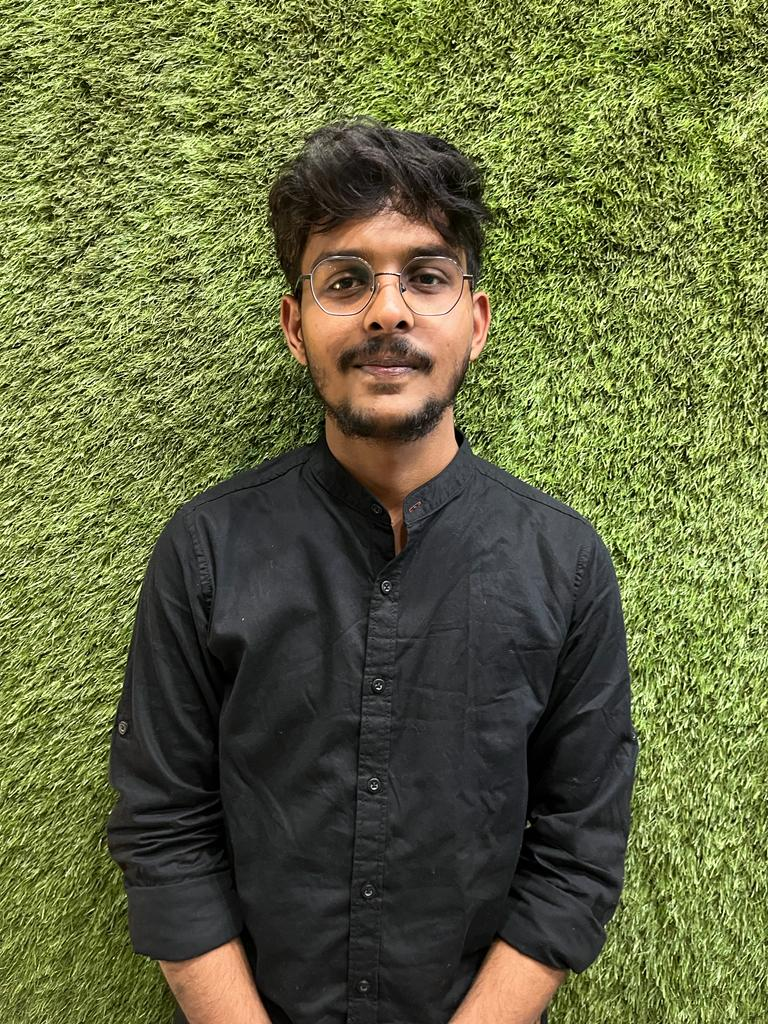
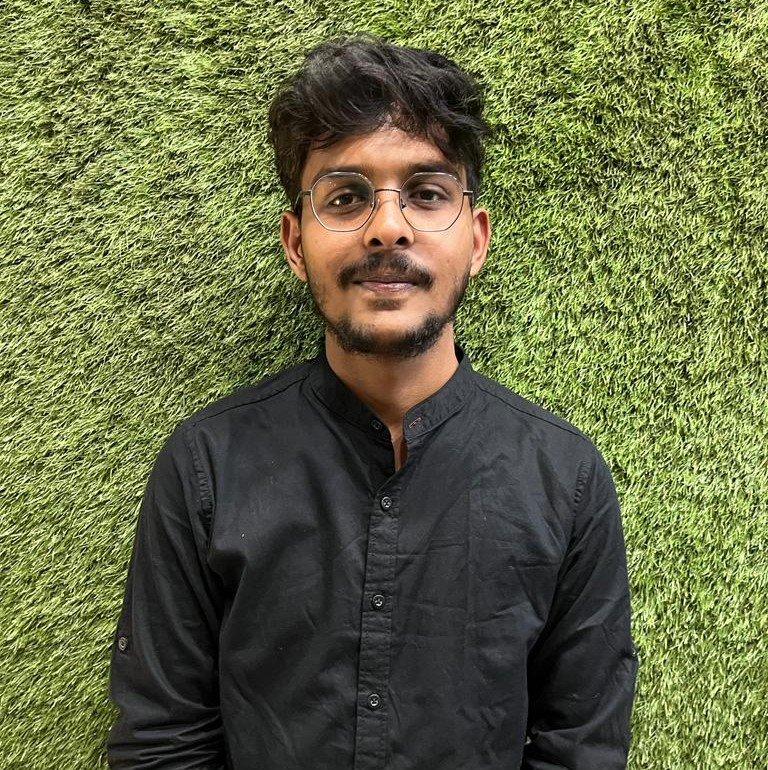
UPDATED PROJECT

diff --git a/src/constants/index.js b/src/constants/index.js
@@ -52,6 +52,7 @@ import {
   techzee,
   NextBlog,
   threejs,
+  jewel,
 } from "../assets";
 
 export const navLinks = [
@@ -371,6 +372,28 @@ const projects = [
     image: techzee,
     source_code_link: "https://github.com/ankur020/Tech-Zee-frontend",
     live_code_link: "https://tzee.netlify.app/ ",
+  },
+  {
+    name: "Jewel",
+    description:
+      "Jewel is a sophisticated e-commerce website that offers a wide range of exquisite jewelry pieces to fulfill your desires for elegance and luxury. Built on the cutting-edge Next.js framework, this online platform provides a seamless and immersive shopping experience.",
+    tags: [
+      {
+        name: "ReactJS",
+        color: "blue-text-gradient",
+      },
+      {
+        name: "Nextjs",
+        color: "green-text-gradient",
+      },
+      {
+        name: "mongodb",
+        color: "pink-text-gradient",
+      },
+    ],
+    image: jewel,
+    source_code_link: "https://github.com/Abhishek3223/Jewels",
+    live_code_link: "https://jewels-chi.vercel.app/",
   }
 ];
 

diff --git a/src/components/Hero.jsx b/src/components/Hero.jsx
@@ -17,7 +17,7 @@ const Hero = () => {
           </h1>
           <h1 className={`${styles.heroHeadText} text-white`}>
             Hi, I'm <span className='text-[#915EFF]'>Abhishek </span>
-            <span className='md:hidden text-[#915EFF]'>ranjan </span>
+            <span className='md:hidden text-[#915EFF]'>Ranjan </span>
           </h1>
           <p style={{ whiteSpace: "nowrap" }} className={`${styles.heroSubText} mt-2 text-white-100`}>
             <span > <Type className="text-[40px]" str={["Web Developer", "Freelancer", "ReactNative Developer"]} /></span>
@@ -25,7 +25,7 @@ const Hero = () => {
           <Sidebar />
         </div>
         <div className="flex justify-start lg:justify-center item-center border-2 flex-center w-40 h-40 rounded-full bg-primary border-red">
-          <img className="w-full rounded-full" src="/abhishek.jpg" alt="" />
+          <img className="w-auto rounded-full" src="/abhishek.jpg" alt="" />
         </div>
 
 

diff --git a/src/components/Sidebar.jsx b/src/components/Sidebar.jsx
@@ -45,9 +45,10 @@ const Sidebar = () => {
                         >
                             <img
                                 // className=""
+                                
                                 src={social.url}
                                 alt={social.name}
-                                className={social.name == 'email' ? " w-[24px] h-[24px]  hover:scale-105 transition duration-200 object-contain cursor-pointer bg-white " : " w-[24px] h-[24px]  hover:scale-105 transition duration-200 object-contain cursor-pointer  "}
+                                className={social.name == 'email' ? " w-[24px] h-[24px]  hover:scale-125 transition duration-200 object-contain cursor-pointer bg-white " : " w-[24px] h-[24px]   transition duration-200 object-contain cursor-pointer hover:scale-125  "}
                             />
                         </a>
                     ))

diff --git a/src/assets/index.js b/src/assets/index.js
@@ -32,6 +32,7 @@ import jobit from "./jobit.png";
 import tripguide from "./tripguide.png";
 import live from "./live.svg";
 import techzee from "./techzee.png"
+import jewel from "./jewel.png"
 export {
   live,
   logo,
@@ -55,6 +56,7 @@ export {
   reactjs,
   redux,
   tailwind,
+  jewel,
   typescript,
   threejs,
   meta,

diff --git a/index.html b/index.html
@@ -9,5 +9,6 @@
   <body>
     <div id="root"></div>
     <script type="module" src="/src/main.jsx"></script>
+    {% comment %} <script src="https://kit.fontawesome.com/216ac05c05.js" crossorigin="anonymous"></script> {% endcomment %}
   </body>
 </html>
